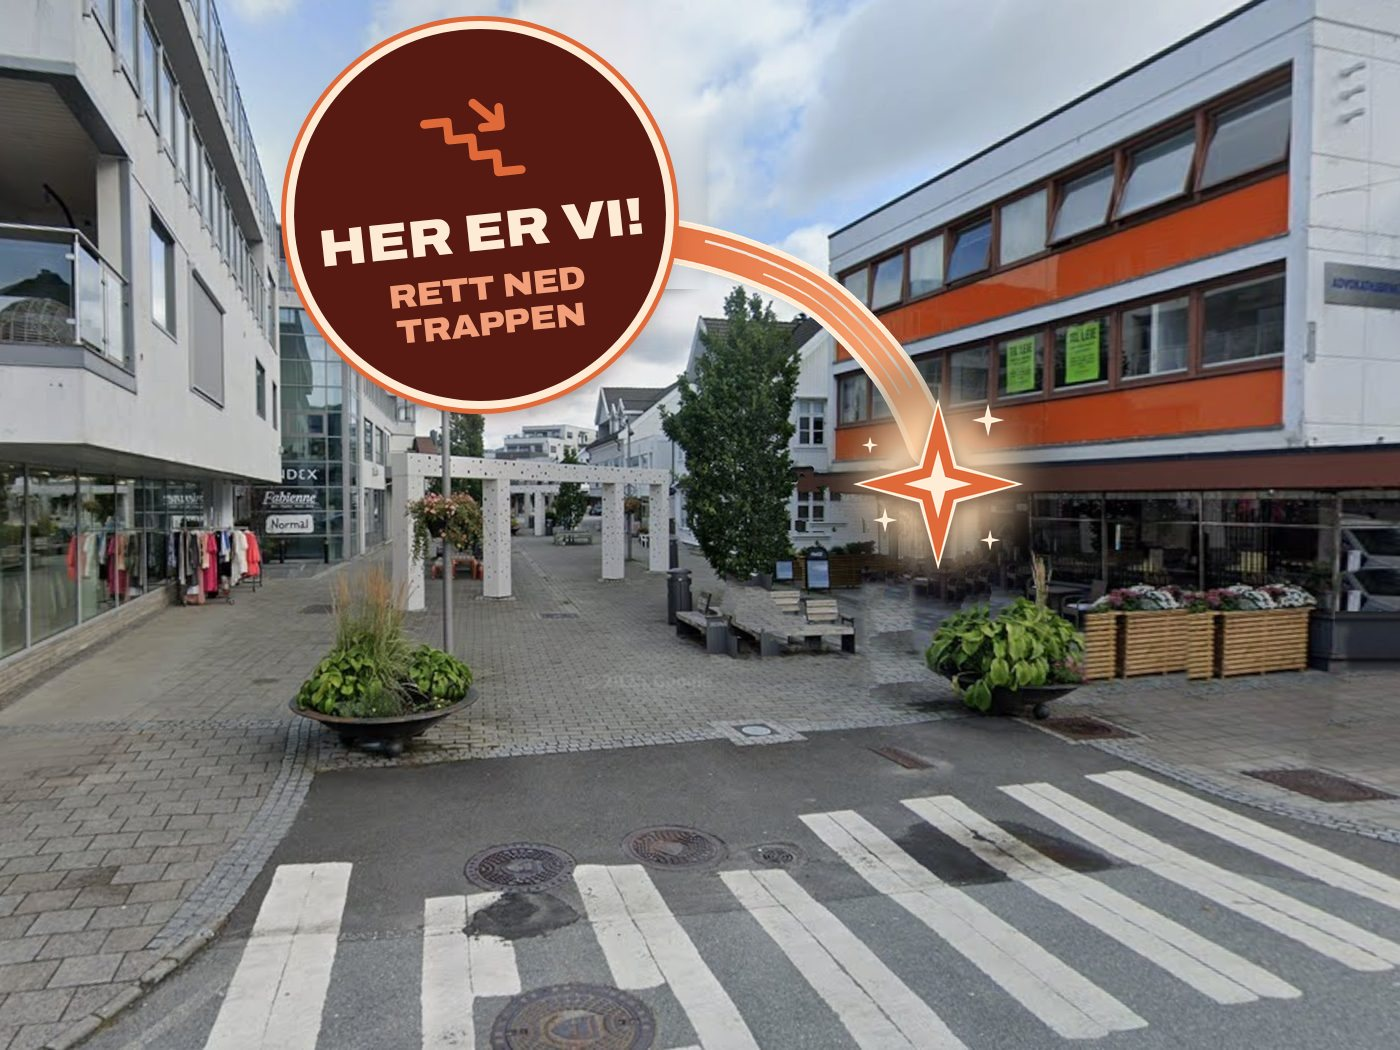
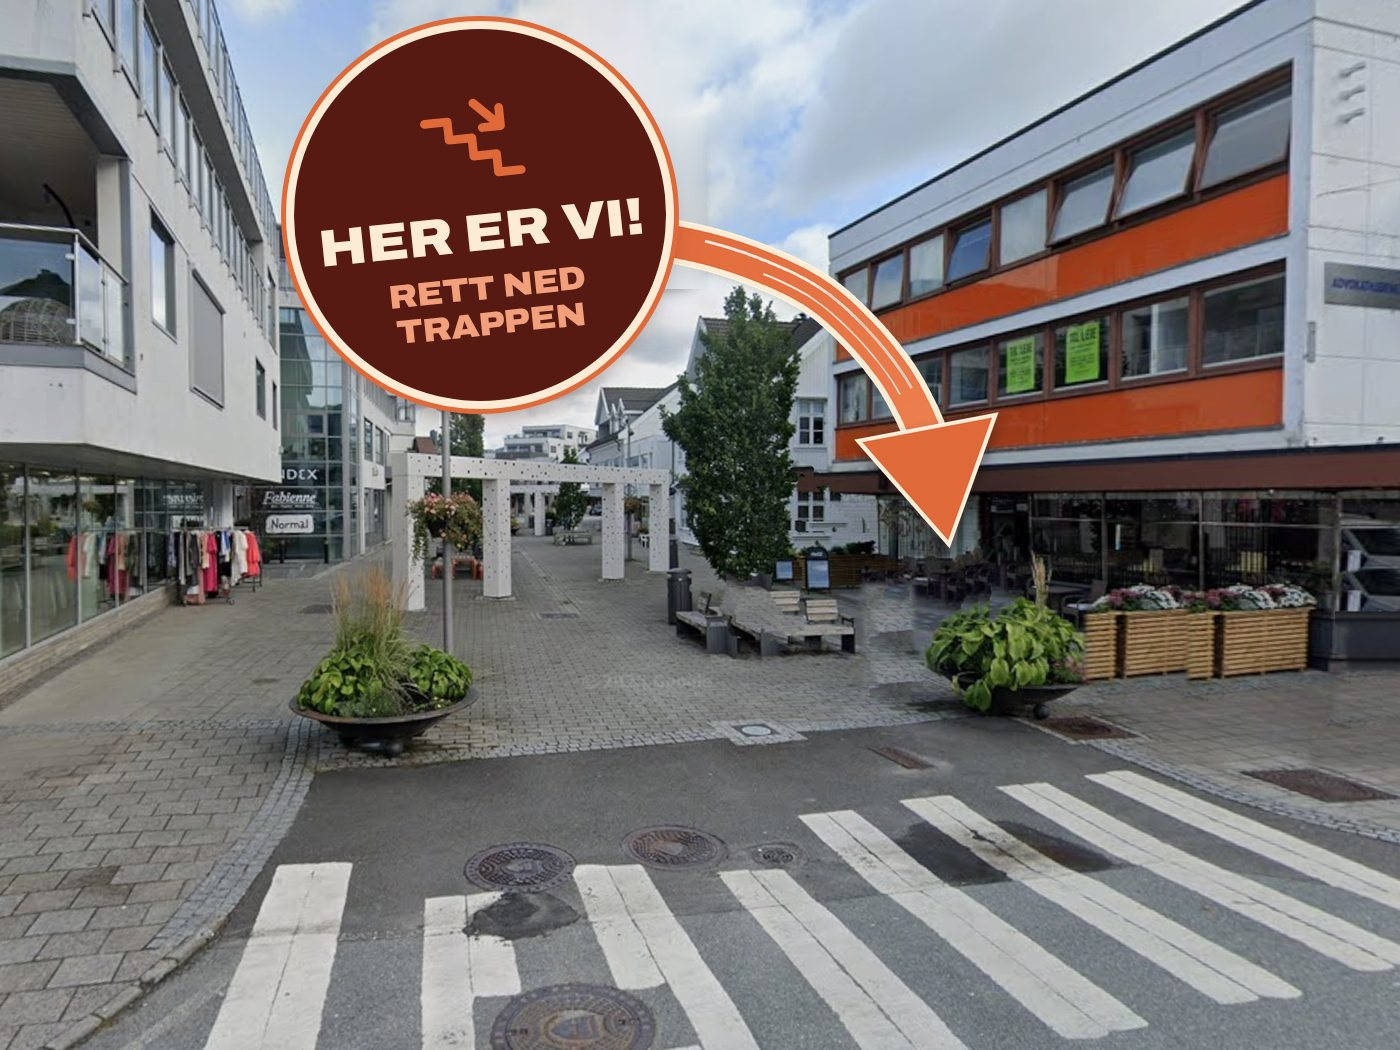
Street picture: arrowhead down to the door instead of the star
Claude-Session: https://claude.ai/code/session_01RRhAi942qst8ZUNjrS2TNS

Changed region(s): [[0.5529, 0.2438, 0.7679, 0.5486]]

diff --git a/index.html b/index.html
@@ -2344,7 +2344,7 @@ textarea.input { border-radius: 22px; resize: vertical; min-height: 6.5em; line-
           </div>
         </div>
         <a class="findus-map" href="https://www.google.com/maps/@58.1376298,7.0699848,3a,75y,31.68h,78.56t/data=!3m7!1e1!3m5!1s0FKhDvEe1NblPDpRfmuLrQ!2e0!6shttps:%2F%2Fstreetviewpixels-pa.clients6.google.com%2Fv1%2Fthumbnail%3Fcb_client%3Dmaps_sv.tactile%26w%3D900%26h%3D600%26pitch%3D11.43841887587098%26panoid%3D0FKhDvEe1NblPDpRfmuLrQ%26yaw%3D31.675660257740443!7i16384!8i8192?entry=ttu&amp;g_ep=EgoyMDI2MDkyMy4wIKXMDSoASAFQAw%3D%3D" target="_blank" rel="noopener">
-          <img src="bilder/butikk-her-er-vi.jpg" width="1400" height="1050" loading="lazy" alt="Gatebilde av Kirkeveien 3 i Lyngdal. En stor pil peker mot inngangen med teksten: Her er vi! Rett ned trappen. Et stjerneskudd peker mot inngangen.">
+          <img src="bilder/butikk-her-er-vi.jpg" width="1400" height="1050" loading="lazy" alt="Gatebilde av Kirkeveien 3 i Lyngdal. En stor pil peker mot inngangen med teksten: Her er vi! Rett ned trappen. En pil peker mot inngangen.">
           <span class="findus-map-cta" aria-hidden="true">Se gatebildet ↗</span>
         </a>
       </div>
